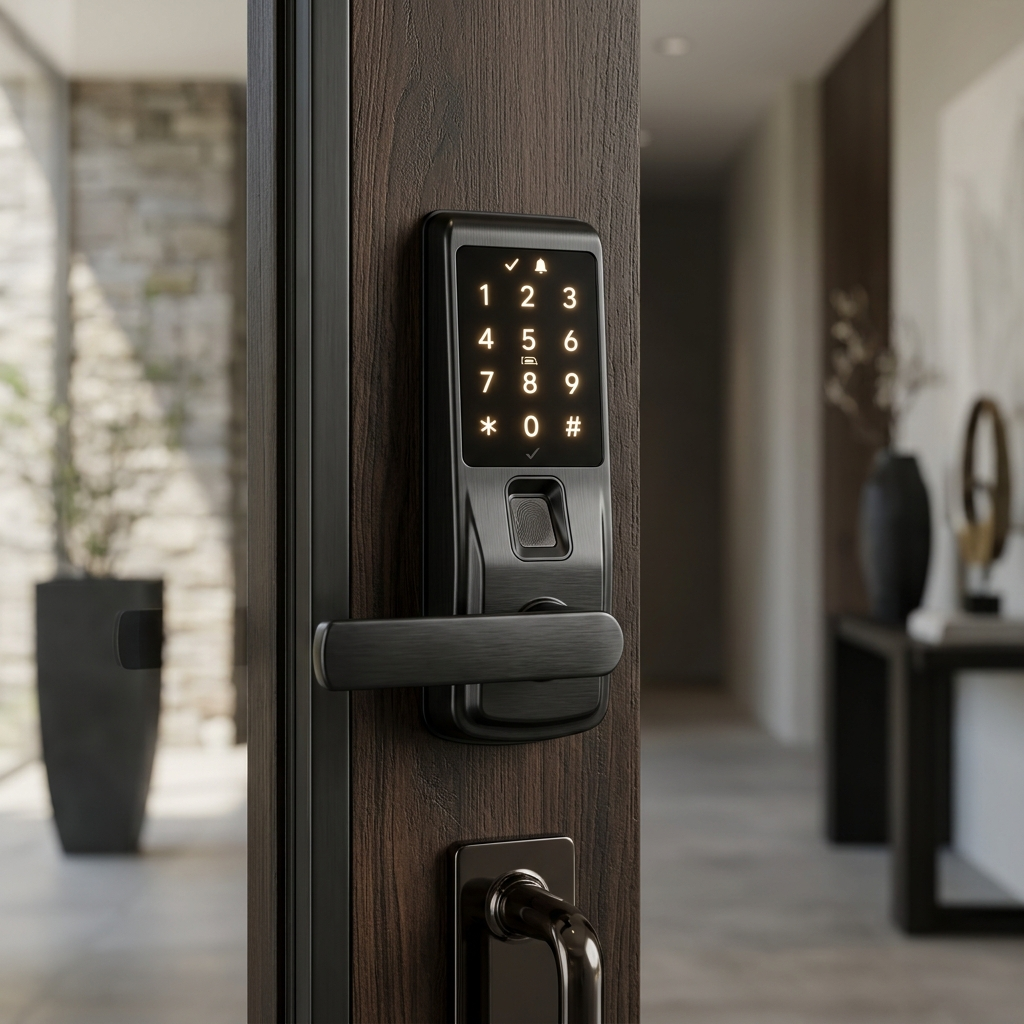
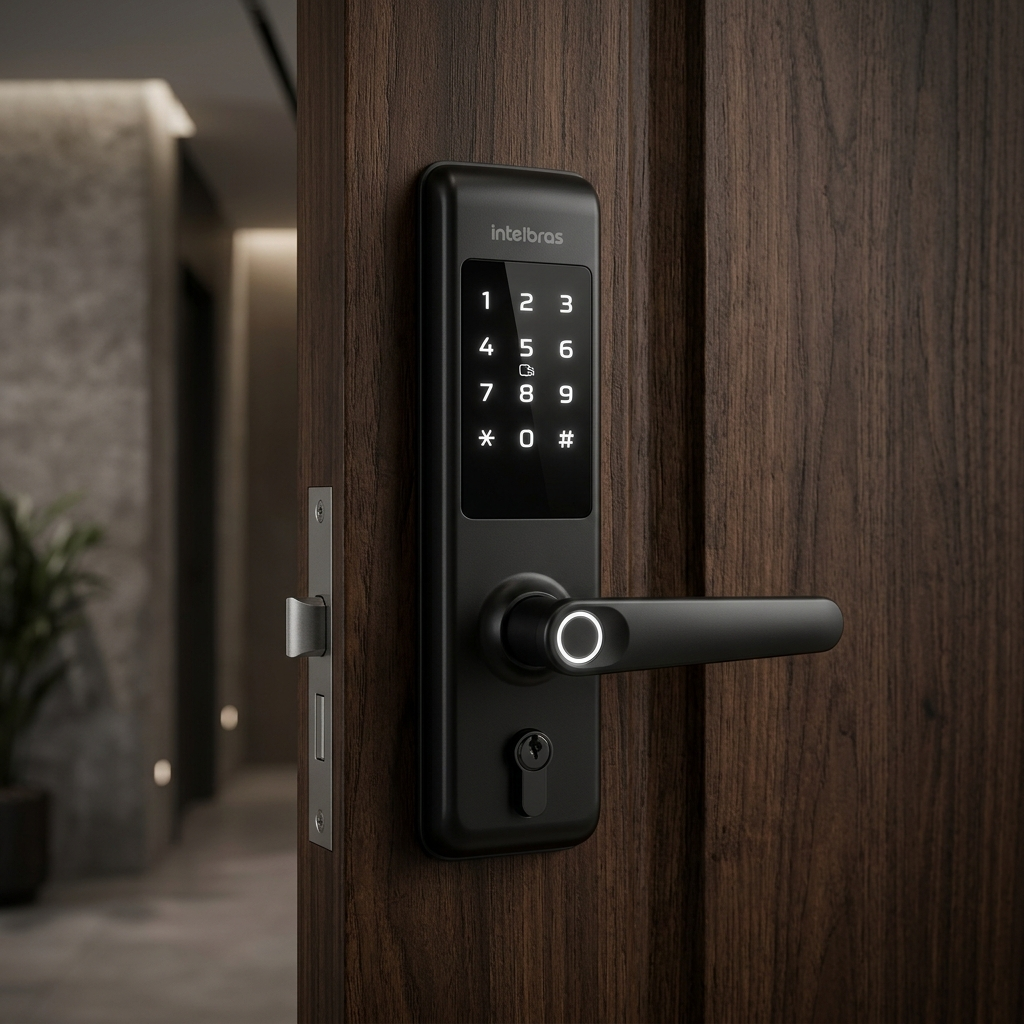
feat: update product descriptions and add assets
Refine technical specifications for MHDX 3116 and Allo WT7 models. Update image constants to support distinct smart lock assets (embutir/sobrepor).

diff --git a/src/components/VideoPorteiroAutomacaoPage.tsx b/src/components/VideoPorteiroAutomacaoPage.tsx
@@ -30,37 +30,50 @@ export function VideoPorteiroAutomacaoPage() {
 
   const EQUIPMENTS: ModalImageData[] = [
     {
-      title: "Vídeo Porteiro Wi-Fi Inteligente",
-      model: "Allo WT7 Intelbras Touchscreen",
-      category: "Vídeo Interfonia",
+      title: "Vídeo Porteiro Wi-Fi Allo WT7",
+      model: "Intelbras Allo WT7 Touch 7''",
+      category: "Vídeo Interfonia Wi-Fi",
       img: IMAGES.PORTFOLIO_PORTEIRO,
-      description: "Vídeo porteiro de alta resolução com tela touch de 7 polegadas e módulo externo resistente à água. Atenda quem toca a campainha diretamente no seu smartphone de qualquer lugar do mundo.",
+      description: "Vídeo porteiro oficial Intelbras Allo WT7. Módulo externo em alumínio escovado com botão circular em LED azul e câmera HD, acompanhado do monitor interno de 7 polegadas touchscreen ultra fino. Atenda visitas e abra até 2 portões pelo app Allo Plus em qualquer lugar do mundo.",
       features: [
-        "Tela interna sensível ao toque colorida de alta resolução",
-        "Abertura de até 2 fechaduras diferentes (portão social e de garagem) via app",
-        "Câmera de ângulo amplo com visão noturna nítida",
-        "Gravação de fotos e vídeos automáticos de todos os visitantes que tocarem"
+        "Monitor interno touchscreen colorido de 7 polegadas com interface Allo",
+        "Abertura de até 2 fechaduras diferentes (portão social e de garagem) via smartphone",
+        "Módulo externo robusto em alumínio escovado com botão de campainha em aro LED azul",
+        "Gravação de fotos e vídeos automáticos de todos os visitantes que tocarem a campainha"
       ]
     },
     {
-      title: "Fechadura Digital Biométrica",
-      model: "FR 201 / FR 330 Touch Intelbras",
-      category: "Fechaduras Digitais",
-      img: IMAGES.PORTFOLIO_LOCK,
-      description: "Diga adeus às chaves perdidas. Fechadura digital inteligente com teclado touch luminoso, leitor biométrico de impressão digital e abertura por tags de aproximação RFID ou senha.",
+      title: "Fechadura Digital de Embutir com Maçaneta",
+      model: "Intelbras IFR 7000 / 7001 Smart",
+      category: "Fechadura de Embutir",
+      img: IMAGES.FECHADURA_EMBUTIR,
+      description: "Fechadura digital de embutir oficial Intelbras com maçaneta integrada preta fosca. Leitor biométrico de alta precisão localizado na própria maçaneta para abertura em um único toque, teclado touch luminoso e conectividade com aplicativo Mibo Smart.",
       features: [
-        "Cadastre biometrias e senhas individuais para familiares e funcionários",
+        "Leitor biométrico na própria maçaneta (destravamento instantâneo em um toque)",
+        "Teclado numérico touch screen luminoso com senhas configuráveis",
+        "Integração com app Mibo Smart para comandos remotos e relatórios de entrada",
+        "Mecanismo de embutir padrão ABNT com trinco rolete e alarme anti-arrombamento"
+      ]
+    },
+    {
+      title: "Fechadura Digital de Sobrepor",
+      model: "Intelbras FR 101 / FR 201 Touch",
+      category: "Fechadura de Sobrepor",
+      img: IMAGES.FECHADURA_SOBREPOR,
+      description: "Fechadura digital compacta de sobrepor oficial Intelbras. Instalação rápida e limpa sem precisar substituir a maçaneta existente. Painel preto espelhado com teclado touch numérico luminoso, abertura por senha ou chaveiro de aproximação RFID.",
+      features: [
+        "Instalação prática de sobrepor sem necessidade de trocar a maçaneta da porta",
+        "Abertura por senha de 4 a 12 dígitos ou chaveiros de aproximação RFID",
         "Travamento automático da porta assim que ela se fecha",
-        "Alarme sonoro em caso de tentativa de arrombamento ou digitação errada",
-        "Alimentação por pilhas comuns com aviso sonoro semanas antes de descarregar"
+        "Alarme sonoro em caso de tentativa de violação ou digitação errada"
       ]
     },
     {
       title: "Automatização de Portão e Controle de Acesso",
-      model: "Motor Rápido Fast & Interfonia",
+      model: "Motores Rápidos Fast Intelbras",
       category: "Automatização de Acessos",
       img: IMAGES.SERVICE_PORTEIRO,
-      description: "Automatizadores rápidos para portões deslizantes, basculantes e pivotantes. Abertura em poucos segundos para você não ficar exposto na rua, além de interfones coletivos prediais.",
+      description: "Automatizadores rápidos para portões deslizantes, basculantes e pivotantes. Abertura em até 4 segundos para você não ficar exposto na rua, além de interfones coletivos prediais.",
       features: [
         "Motores de alta durabilidade com destravamento manual com chave para falta de luz",
         "Placa eletrônica inteligente com parada suave e sensor anti-esmagamento",

diff --git a/src/App.tsx b/src/App.tsx
@@ -140,12 +140,12 @@ const INTELBRAS_CATALOG: ModalImageData[] = [
     features: ['Visão noturna colorida Full Color', 'Giro 360° panorâmico externo', 'Sirene de alarme integrada']
   },
   {
-    title: 'Gravador Digital Multi-HD',
-    model: 'MHDX 1108 / 1116 Intelbras',
+    title: 'Gravador Digital Multi-HD 16 Canais',
+    model: 'Intelbras MHDX 3116 Multi-HD',
     category: 'Gravadores e NVRs',
     img: IMAGES.PORTFOLIO_NVR,
-    description: 'Gravador de segurança com compressão de alta performance H.265+, reconhecimento facial e acesso criptografado via Intelbras Cloud.',
-    features: ['Compressão H.265+ econômica', 'Busca rápida por pessoa/veículo', 'Acesso remoto pelo celular']
+    description: 'Gravador oficial Intelbras MHDX 3116 com 16 canais Multi-HD, chassi 1U metálico para rack ou bancada, LEDs indicadores frontais (Power, Net, HDD), porta USB e inteligência artificial para detecção inteligente de pessoas e veículos.',
+    features: ['16 canais Multi-HD de alta definição', 'Chassi metálico 1U oficial Intelbras com LEDs de status', 'Compressão H.265+ e inteligência de busca forense']
   },
   {
     title: 'Central de Alarme Sem Fio',
@@ -164,20 +164,28 @@ const INTELBRAS_CATALOG: ModalImageData[] = [
     features: ['Choque pulsativo inibitório', 'Detecção de corte e aterramento', 'Norma ABNT e IEC']
   },
   {
-    title: 'Vídeo Porteiro Wi-Fi Allo',
-    model: 'Allo WT7 Intelbras',
+    title: 'Vídeo Porteiro Wi-Fi Allo WT7',
+    model: 'Intelbras Allo WT7 Touch 7\'\'',
     category: 'Vídeo Interfonia',
     img: IMAGES.PORTFOLIO_PORTEIRO,
-    description: 'Vídeo porteiro com tela touchscreen de 7 polegadas e visualização remota no celular para atendimento e abertura remota.',
-    features: ['Tela touch colorida 7 polegadas', 'Abertura remota pelo smartphone', 'Gravação de fotos dos visitantes']
+    description: 'Sistema oficial Intelbras Allo WT7: módulo externo em alumínio escovado com botão de chamada em anel LED azul e tela interna de 7" touchscreen colorida. Atendimento e abertura remota pelo app Allo Plus.',
+    features: ['Módulo slim em alumínio escovado e aro LED azul', 'Tela touch 7" capacitiva de alta resolução', 'Abertura remota de portões pelo smartphone']
   },
   {
-    title: 'Fechadura Digital Biométrica',
-    model: 'FR 201 / FR 330 Touch',
+    title: 'Fechadura Digital de Embutir com Maçaneta',
+    model: 'Intelbras IFR 7000 / 7001 Smart',
     category: 'Fechaduras Digitais',
-    img: IMAGES.PORTFOLIO_LOCK,
-    description: 'Fechadura eletrônica com leitor biométrico, teclado touch luminoso e abertura por cartão ou senha. Conforto total sem chaves.',
-    features: ['Abertura por biometria e senha', 'Travamento automático ao fechar', 'Alarme anti-arrombamento']
+    img: IMAGES.FECHADURA_EMBUTIR,
+    description: 'Fechadura de embutir oficial Intelbras com maçaneta integrada, leitor biométrico ultra-rápido na própria maçaneta para abertura em 1 toque e teclado touch com senhas.',
+    features: ['Biometria ultra-rápida no próprio puxador', 'Mecanismo embutido de máxima resistência', 'Compatível com app Mibo Smart e senhas temporárias']
+  },
+  {
+    title: 'Fechadura Digital de Sobrepor',
+    model: 'Intelbras FR 101 / FR 201 Touch',
+    category: 'Fechaduras Digitais',
+    img: IMAGES.FECHADURA_SOBREPOR,
+    description: 'Fechadura digital de sobrepor compacta com acabamento black piano de alto brilho, teclado touch numérico luminoso, abertura por senha ou chaveiro RFID e travamento automático.',
+    features: ['Instalação sobreposta sem precisar trocar a maçaneta', 'Abertura rápida por senha ou chaveiros RFID', 'Travamento instantâneo ao fechar a porta']
   },
   {
     title: 'Switch Gigabit PoE Gerenciável',

diff --git a/src/components/SegurancaEletronicaPage.tsx b/src/components/SegurancaEletronicaPage.tsx
@@ -69,16 +69,16 @@ export function SegurancaEletronicaPage() {
       ]
     },
     {
-      title: "Gravador Digital NVR Multi-HD",
-      model: "MHDX 1108 / 1116 Intelbras",
+      title: "Gravador Digital Multi-HD 16 Canais",
+      model: "Intelbras MHDX 3116 Multi-HD",
       category: "Gravadores e Centrais",
       img: IMAGES.PORTFOLIO_NVR,
-      description: "NVR/DVR inteligente com reconhecimento facial e inteligência artificial perimetral. Gravação contínua 24h com acesso remoto criptografado via Intelbras Cloud.",
+      description: "Gravador oficial Intelbras MHDX 3116 com 16 canais Multi-HD, chassi 1U metálico para rack ou bancada com aletas de refrigeração, LEDs frontais (Power, Net, HDD), porta USB e inteligência artificial perimetral. Gravação contínua 24h com acesso remoto criptografado via Intelbras Cloud e iSIC Lite.",
       features: [
+        "16 canais Multi-HD oficiais Intelbras em chassi metálico 1U",
         "Compressão H.265+ que economiza até 70% de espaço em disco",
-        "Suporte a múltiplos canais IP e analógicos de alta resolução",
-        "Busca forense inteligente por pessoas ou veículos gravados",
-        "Acesso rápido via aplicativo celular iSIC Lite"
+        "LEDs frontais de diagnóstico (Power, Net, HDD) e porta USB para backup",
+        "Busca forense inteligente por pessoas ou veículos gravados"
       ]
     },
     {

diff --git a/src/constants/images.ts b/src/constants/images.ts
@@ -92,10 +92,13 @@ export const IMAGES = {
   EQUIP_VIP_BULLET: '/img/equip_bullet.jpg',
   EQUIP_MIBO_IM5: '/img/mibo_im5.jpg',
   EQUIP_NVR_MULTIHD: '/img/equip_nvr.jpg',
+  EQUIP_MHDX_3116: '/img/equip_mhdx_3116.jpg',
   EQUIP_ALARME_AMT: '/img/equip_alarme.jpg',
   EQUIP_CERCA_ELC: '/img/equip_cerca.jpg',
   EQUIP_ALLO_WT7: '/img/equip_video_porteiro.jpg',
-  EQUIP_FECHADURA_DIGITAL: '/img/equip_fechadura.jpg',
+  EQUIP_FECHADURA_DIGITAL: '/img/equip_fechadura_embutir.jpg',
+  FECHADURA_EMBUTIR: '/img/equip_fechadura_embutir.jpg',
+  FECHADURA_SOBREPOR: '/img/equip_fechadura_sobrepor.jpg',
   EQUIP_SWITCH_POE: '/img/equip_switch.jpg',
   EQUIP_QUADRO_DISJUNTORES: '/img/equip_quadro.jpg',
 
